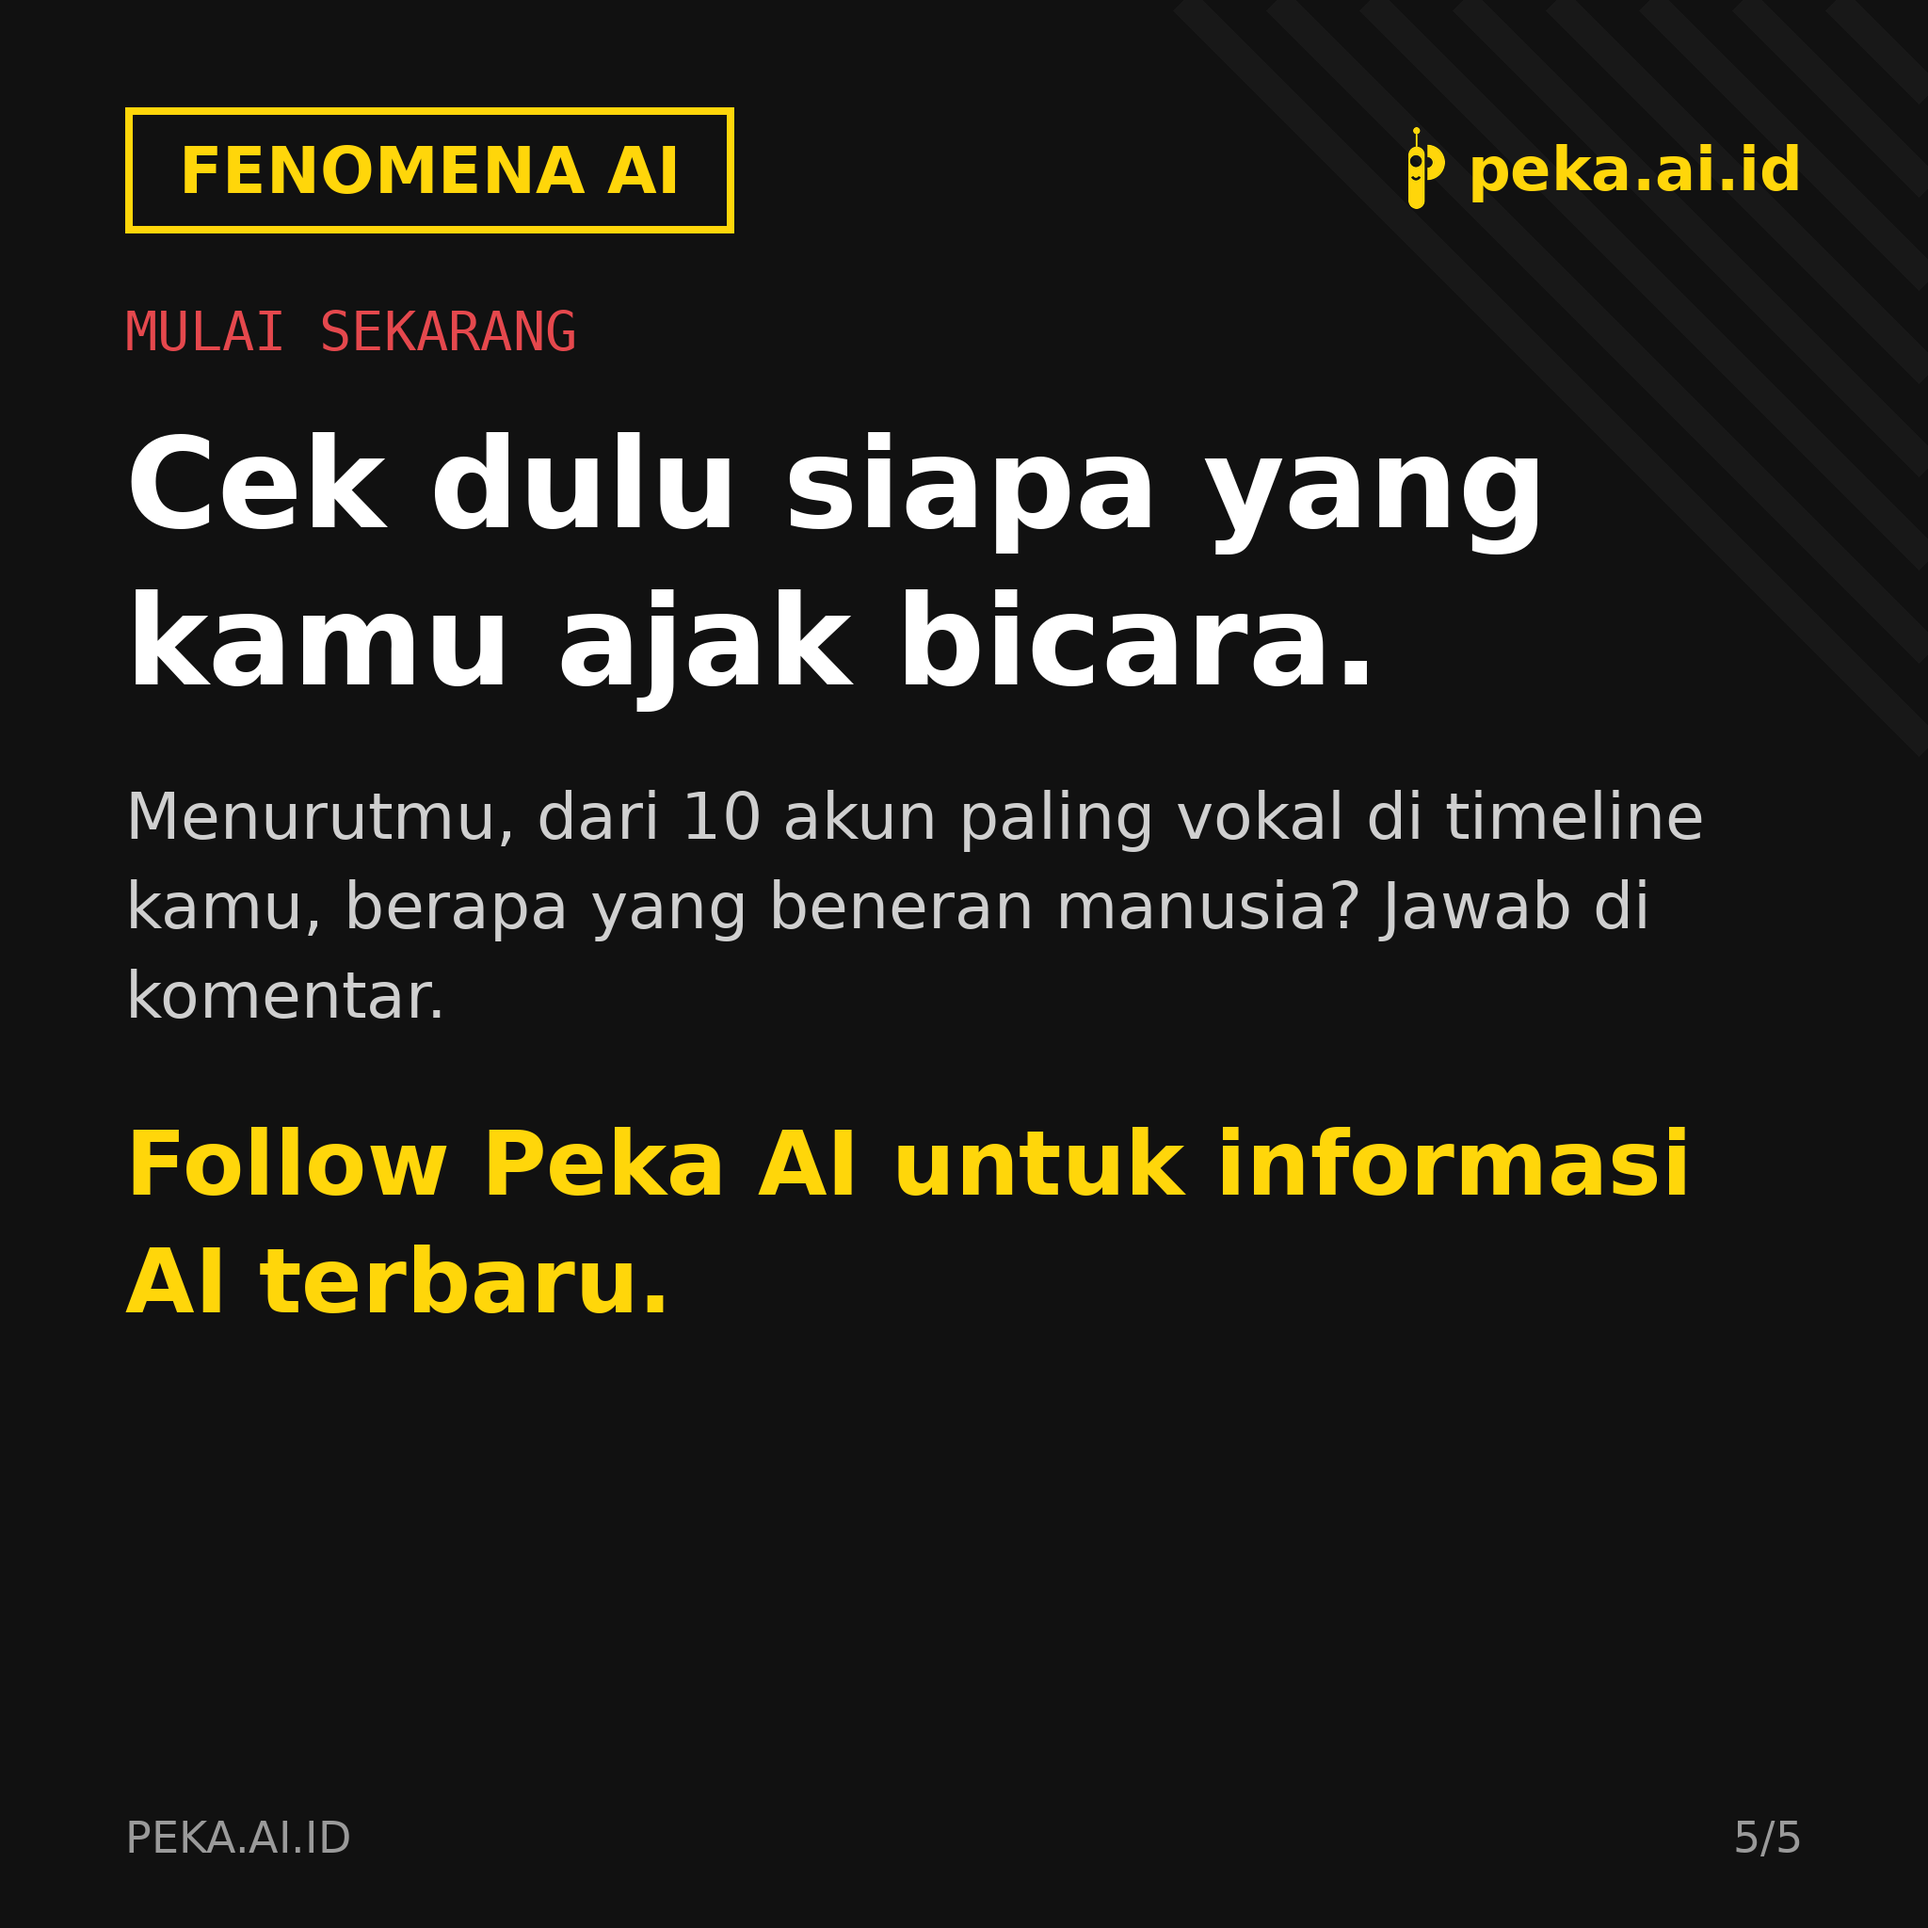
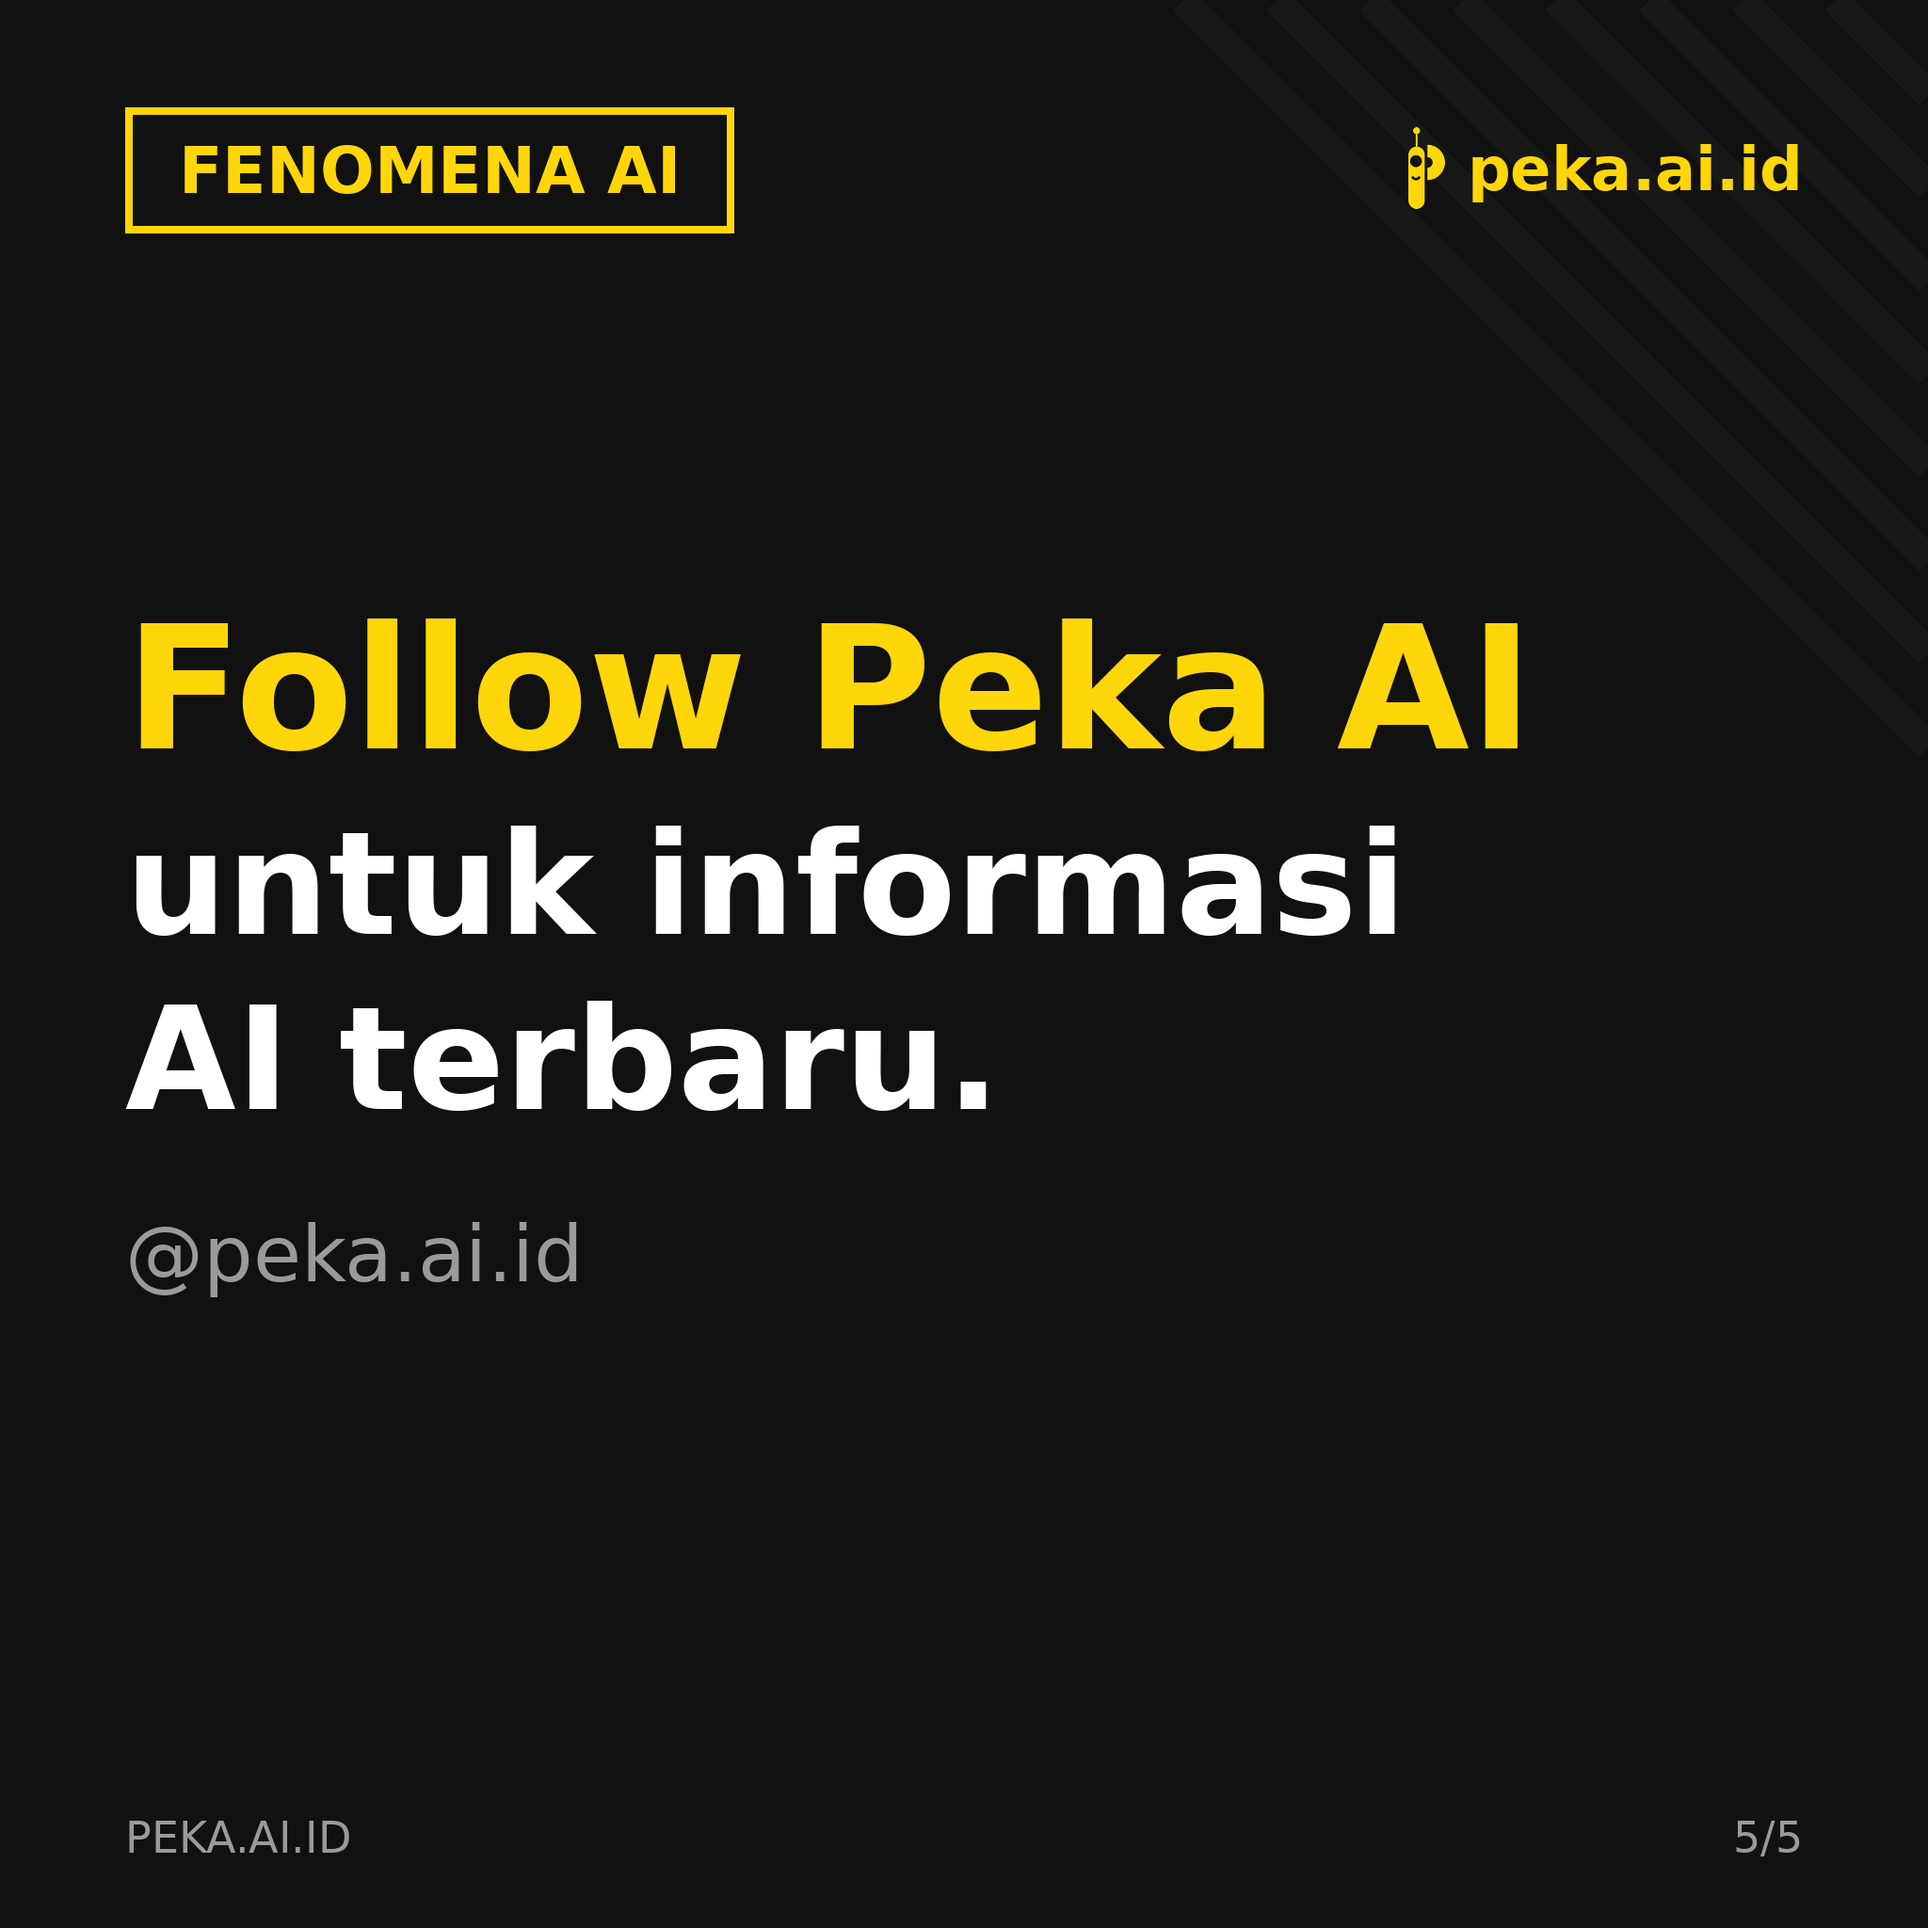
Buzzer special: closing slide replaced with pure follow CTA

Changed region(s): [[0.0625, 0.2188, 0.875, 0.6875], [0.0625, 0.2188, 0.375, 0.2812], [0.0625, 0.1562, 0.3125, 0.1875]]

diff --git a/hm/buzzer_design.py b/hm/buzzer_design.py
@@ -158,24 +158,18 @@ def raw_slide(ss_path, idx):
 
 
 def closing():
+    """Pure follow-invitation closing (user: previous closing did not
+    connect; replace with a follow CTA for the latest AI info)."""
     img = Image.new("RGB", (W, H), BG)
     d = head(img)
-    d.text((X(70), X(168)), "MULAI SEKARANG", font=mono(30), fill=RED)
-    y = X(230)
-    for ln in ["Cek dulu siapa yang", "kamu ajak bicara."]:
-        d.text((X(70), y), ln, font=f(70), fill=WHT)
-        y += X(88)
-    y += X(30)
-    q = ("Menurutmu, dari 10 akun paling vokal di timeline kamu, berapa "
-         "yang beneran manusia? Jawab di komentar.")
-    for ln in wrap(d, q, f(36, False), W - X(140)):
-        d.text((X(70), y), ln, font=f(36, False), fill="#cfcfcf")
-        y += X(50)
-    y += X(36)
-    for ln in wrap(d, "Follow Peka AI untuk informasi AI terbaru.",
-                   f(50), W - X(140)):
-        d.text((X(70), y), ln, font=f(50), fill=YEL)
-        y += X(66)
+    y = X(330)
+    d.text((X(70), y), "Follow Peka AI", font=f(96), fill=YEL)
+    y += X(118)
+    d.text((X(70), y), "untuk informasi", font=f(80), fill=WHT)
+    y += X(98)
+    d.text((X(70), y), "AI terbaru.", font=f(80), fill=WHT)
+    y += X(130)
+    d.text((X(70), y), "@peka.ai.id", font=f(44, False), fill=GRY)
     D.footer(d, N, N)
     return img
 
